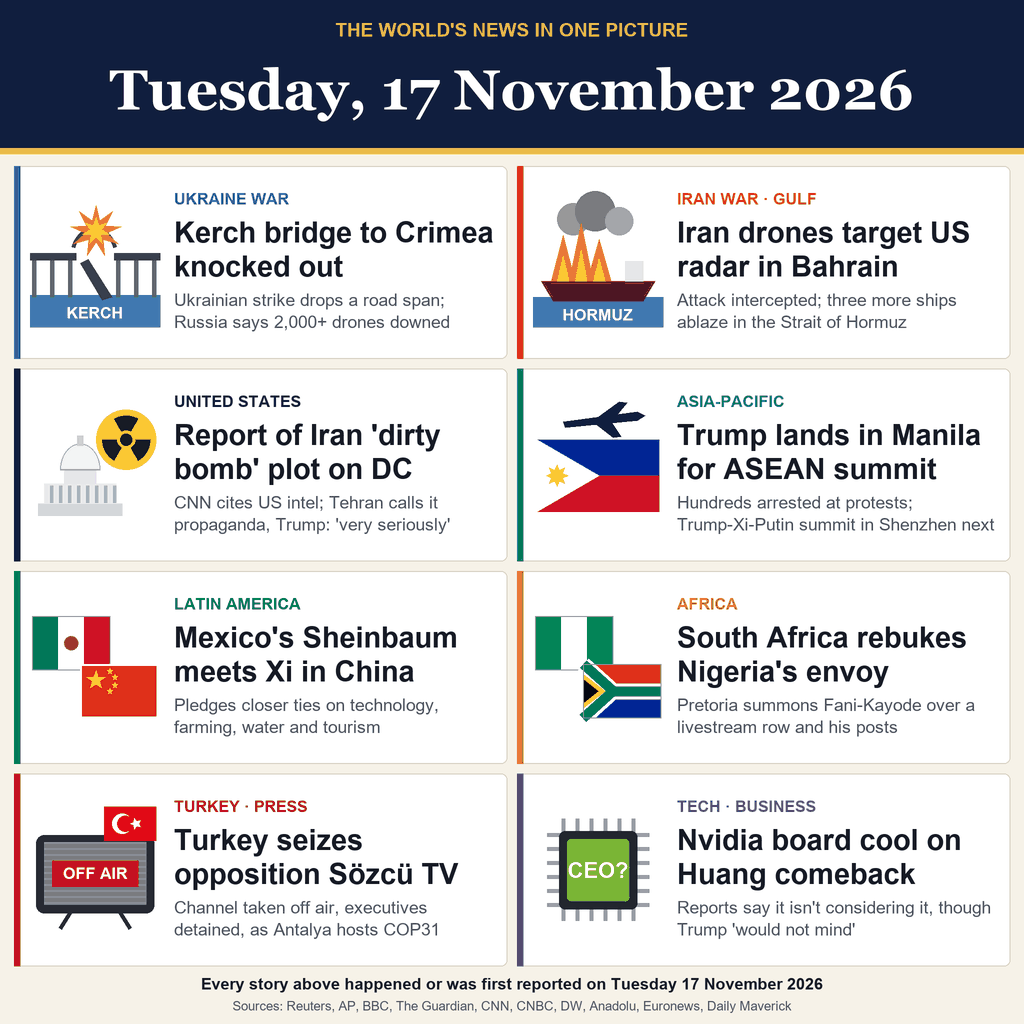
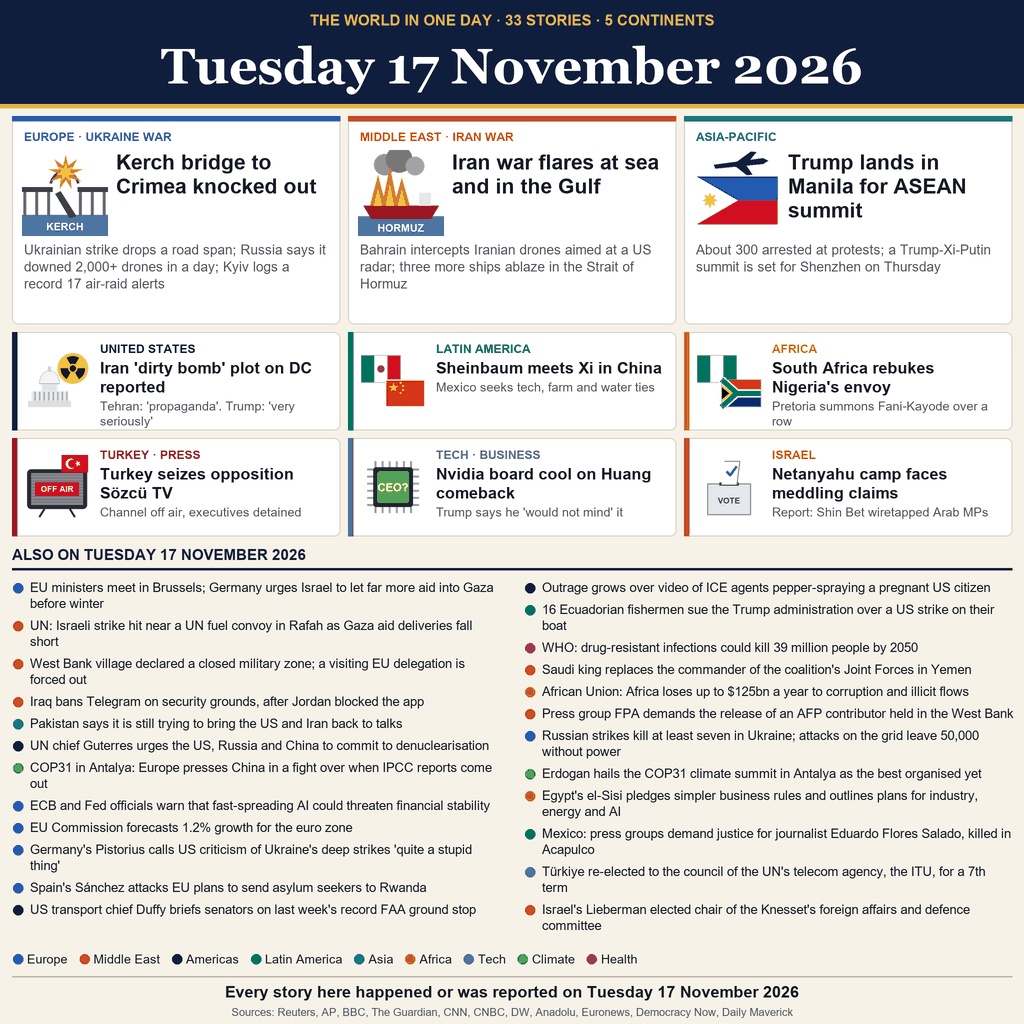
Denser front page: 33 stories of 17 Nov 2026

diff --git a/make_image2.py b/make_image2.py
@@ -1,0 +1,162 @@
+"""Second, denser layout for entry.png: Tuesday 17 November 2026, 28 stories on one front page.
+Reuses the canvas helpers and pictograms defined in make_image.py (everything above its story list).
+Run once on the build machine:  uv run --with pillow python make_image2.py
+"""
+from PIL import Image, ImageDraw
+
+_src = open("make_image.py", encoding="utf8").read().split("# ---------- the day's stories ----------")[0]
+exec(_src)  # fonts, canvas, rect/poly/text/wrap helpers and the ic_* pictograms
+
+F_K = font("arialbd.ttf", 15)
+F_D = font("georgiab.ttf", 50)
+F_T = font("arialbd.ttf", 12)
+F_H1 = font("arialbd.ttf", 21)
+F_B1 = font("arial.ttf", 13.5)
+F_H2 = font("arialbd.ttf", 16)
+F_B2 = font("arial.ttf", 12.5)
+F_L = font("arial.ttf", 13)
+F_SEC = font("arialbd.ttf", 15)
+F_SRC2 = font("arial.ttf", 11)
+
+EUR, MEA, AME = (36, 92, 178), (204, 74, 24), (16, 30, 62)
+ASIA, LAT, AFR = (0, 122, 128), (0, 122, 70), (190, 120, 0)
+TECH, CLIM, HEALTH, PRESS = (96, 60, 160), (46, 140, 60), (200, 40, 110), (180, 20, 40)
+
+
+def ic_ballot(x, y):
+    rect(x + 22, y + 58, x + 108, y + 120, (226, 230, 238), outline=(120, 126, 140), width=2)
+    rect(x + 46, y + 56, x + 84, y + 62, (60, 64, 76))
+    poly([(x + 50, y + 60), (x + 80, y + 60), (x + 86, y + 14), (x + 56, y + 14)], (255, 255, 255))
+    line([(x + 56, y + 14), (x + 86, y + 14), (x + 80, y + 60)], (120, 126, 140), 2)
+    line([(x + 60, y + 34), (x + 67, y + 42), (x + 80, y + 24)], (36, 92, 178), 5)
+    text(x + 65, y + 92, "VOTE", F_TAG, (60, 64, 76), "mm")
+
+
+def icon(fn, x, y, size):
+    """Draw a 130-px pictogram on its own layer and paste it scaled to size."""
+    global d
+    layer = Image.new("RGBA", (130 * S, 130 * S), (0, 0, 0, 0))
+    keep = d
+    d = ImageDraw.Draw(layer)
+    fn(0, 0)
+    d = keep
+    layer = layer.resize((int(size * S), int(size * S)), Image.LANCZOS)
+    img.paste(layer, (int(x * S), int(y * S)), layer)
+
+
+def para(x, y, s, f, fill, width, lh, maxl=9):
+    for ln in wrap(s, f, width)[:maxl]:
+        text(x, y, ln, f, fill)
+        y += lh
+    return y
+
+
+HERO = [
+    ("EUROPE \u00b7 UKRAINE WAR", EUR, ic_bridge, "Kerch bridge to Crimea knocked out",
+     "Ukrainian strike drops a road span; Russia says it downed 2,000+ drones in a day; Kyiv logs a record 17 air-raid alerts"),
+    ("MIDDLE EAST \u00b7 IRAN WAR", MEA, ic_ship_fire, "Iran war flares at sea and in the Gulf",
+     "Bahrain intercepts Iranian drones aimed at a US radar; three more ships ablaze in the Strait of Hormuz"),
+    ("ASIA-PACIFIC", ASIA, ic_philippines, "Trump lands in Manila for ASEAN summit",
+     "About 300 arrested at protests; a Trump-Xi-Putin summit is set for Shenzhen on Thursday"),
+]
+MID = [
+    ("UNITED STATES", AME, ic_capitol_radiation, "Iran 'dirty bomb' plot on DC reported",
+     "Tehran: 'propaganda'. Trump: 'very seriously'"),
+    ("LATIN AMERICA", LAT, ic_mexico_china, "Sheinbaum meets Xi in China",
+     "Mexico seeks tech, farm and water ties"),
+    ("AFRICA", AFR, ic_sa_nigeria, "South Africa rebukes Nigeria's envoy",
+     "Pretoria summons Fani-Kayode over a row"),
+    ("TURKEY \u00b7 PRESS", PRESS, ic_turkey_tv, "Turkey seizes opposition S\u00f6zc\u00fc TV",
+     "Channel off air, executives detained"),
+    ("TECH \u00b7 BUSINESS", TECH, ic_chip, "Nvidia board cool on Huang comeback",
+     "Trump says he 'would not mind' it"),
+    ("ISRAEL", MEA, ic_ballot, "Netanyahu camp faces meddling claims",
+     "Report: Shin Bet wiretapped Arab MPs"),
+]
+ALSO = [
+    (EUR, "EU ministers meet in Brussels; Germany urges Israel to let far more aid into Gaza before winter"),
+    (MEA, "UN: Israeli strike hit near a UN fuel convoy in Rafah as Gaza aid deliveries fall short"),
+    (MEA, "West Bank village declared a closed military zone; a visiting EU delegation is forced out"),
+    (MEA, "Iraq bans Telegram on security grounds, after Jordan blocked the app"),
+    (ASIA, "Pakistan says it is still trying to bring the US and Iran back to talks"),
+    (AME, "UN chief Guterres urges the US, Russia and China to commit to denuclearisation"),
+    (CLIM, "COP31 in Antalya: Europe presses China in a fight over when IPCC reports come out"),
+    (EUR, "ECB and Fed officials warn that fast-spreading AI could threaten financial stability"),
+    (EUR, "EU Commission forecasts 1.2% growth for the euro zone"),
+    (EUR, "Germany's Pistorius calls US criticism of Ukraine's deep strikes 'quite a stupid thing'"),
+    (EUR, "Spain's S\u00e1nchez attacks EU plans to send asylum seekers to Rwanda"),
+    (AME, "US transport chief Duffy briefs senators on last week's record FAA ground stop"),
+    (AME, "Outrage grows over video of ICE agents pepper-spraying a pregnant US citizen"),
+    (LAT, "16 Ecuadorian fishermen sue the Trump administration over a US strike on their boat"),
+    (HEALTH, "WHO: drug-resistant infections could kill 39 million people by 2050"),
+    (MEA, "Saudi king replaces the commander of the coalition's Joint Forces in Yemen"),
+    (AFR, "African Union: Africa loses up to $125bn a year to corruption and illicit flows"),
+    (MEA, "Press group FPA demands the release of an AFP contributor held in the West Bank"),
+    (EUR, "Russian strikes kill at least seven in Ukraine; attacks on the grid leave 50,000 without power"),
+    (CLIM, "Erdogan hails the COP31 climate summit in Antalya as the best organised yet"),
+    (AFR, "Egypt's el-Sisi pledges simpler business rules and outlines plans for industry, energy and AI"),
+    (LAT, "Mexico: press groups demand justice for journalist Eduardo Flores Salado, killed in Acapulco"),
+    (TECH, "T\u00fcrkiye re-elected to the council of the UN's telecom agency, the ITU, for a 7th term"),
+    (MEA, "Israel's Lieberman elected chair of the Knesset's foreign affairs and defence committee"),
+]
+TOTAL = len(HERO) + len(MID) + len(ALSO)
+
+# fresh page
+rect(0, 0, W, H, PAPER)
+rect(0, 0, W, 104, NAVY)
+text(W / 2, 20, f"THE WORLD IN ONE DAY \u00b7 {TOTAL} STORIES \u00b7 5 CONTINENTS", F_K, GOLD, "mm")
+text(W / 2, 66, "Tuesday 17 November 2026", F_D, (255, 255, 255), "mm")
+rect(0, 104, W, 108, GOLD)
+
+# three lead stories
+MX, GAP = 12, 8
+cw = (W - 2 * MX - 2 * GAP) / 3
+for i, (tag, col, ic, head, sub) in enumerate(HERO):
+    x, y = MX + i * (cw + GAP), 116
+    rect(x, y, x + cw, y + 208, CARD, outline=(214, 208, 194), width=1, r=6)
+    rect(x, y, x + cw, y + 5, col)
+    text(x + 12, y + 14, tag, F_T, col)
+    icon(ic, x + 10, y + 34, 86)
+    hy = para(x + 104, y + 34, head, F_H1, INK, cw - 114, 24, 3)
+    para(x + 12, max(hy, y + 122) + 4, sub, F_B1, GREY, cw - 24, 17, 4)
+
+# six more with pictograms
+ch = 98
+for i, (tag, col, ic, head, sub) in enumerate(MID):
+    x, y = MX + (i % 3) * (cw + GAP), 332 + (i // 3) * (ch + GAP)
+    rect(x, y, x + cw, y + ch, CARD, outline=(214, 208, 194), width=1, r=6)
+    rect(x, y, x + 5, y + ch, col)
+    icon(ic, x + 12, y + 16, 66)
+    text(x + 88, y + 10, tag, F_T, col)
+    hy = para(x + 88, y + 27, head, F_H2, INK, cw - 98, 19, 2)
+    para(x + 88, hy + 2, sub, F_B2, GREY, cw - 98, 15, 2)
+
+# the rest of the day
+sy = 546
+text(MX, sy, "ALSO ON TUESDAY 17 NOVEMBER 2026", F_SEC, NAVY)
+rect(MX, sy + 22, W - MX, sy + 24, NAVY)
+half = (len(ALSO) + 1) // 2
+for c in range(2):
+    x, y = MX + c * (W / 2), sy + 34
+    for col, s in ALSO[c * half:(c + 1) * half]:
+        circle(x + 6, y + 8, 5, col)
+        y = para(x + 18, y, s, F_L, INK, W / 2 - 40, 16, 2) + 6
+
+# region key and sources
+ky = 952
+keys = [("Europe", EUR), ("Middle East", MEA), ("Americas", AME), ("Latin America", LAT), ("Asia", ASIA),
+        ("Africa", AFR), ("Tech", TECH), ("Climate", CLIM), ("Health", HEALTH)]
+kx = MX
+for name, col in keys:
+    circle(kx + 6, ky + 7, 5, col)
+    text(kx + 15, ky, name, F_B2, INK)
+    kx += 26 + F_B2.getlength(name) / S
+rect(MX, 976, W - MX, 977, (190, 184, 170))
+text(W / 2, 992, "Every story here happened or was reported on Tuesday 17 November 2026", F_FOOT, INK, "mm")
+text(W / 2, 1012, "Sources: Reuters, AP, BBC, The Guardian, CNN, CNBC, DW, Anadolu, Euronews, Democracy Now, Daily Maverick",
+     F_SRC2, GREY, "mm")
+
+out = img.resize((W, H), Image.LANCZOS)
+out = out.quantize(colors=160, method=Image.Quantize.MEDIANCUT, dither=Image.Dither.NONE)
+out.save("entry.png", optimize=True)
+print("wrote entry.png", out.size, TOTAL, "stories")
